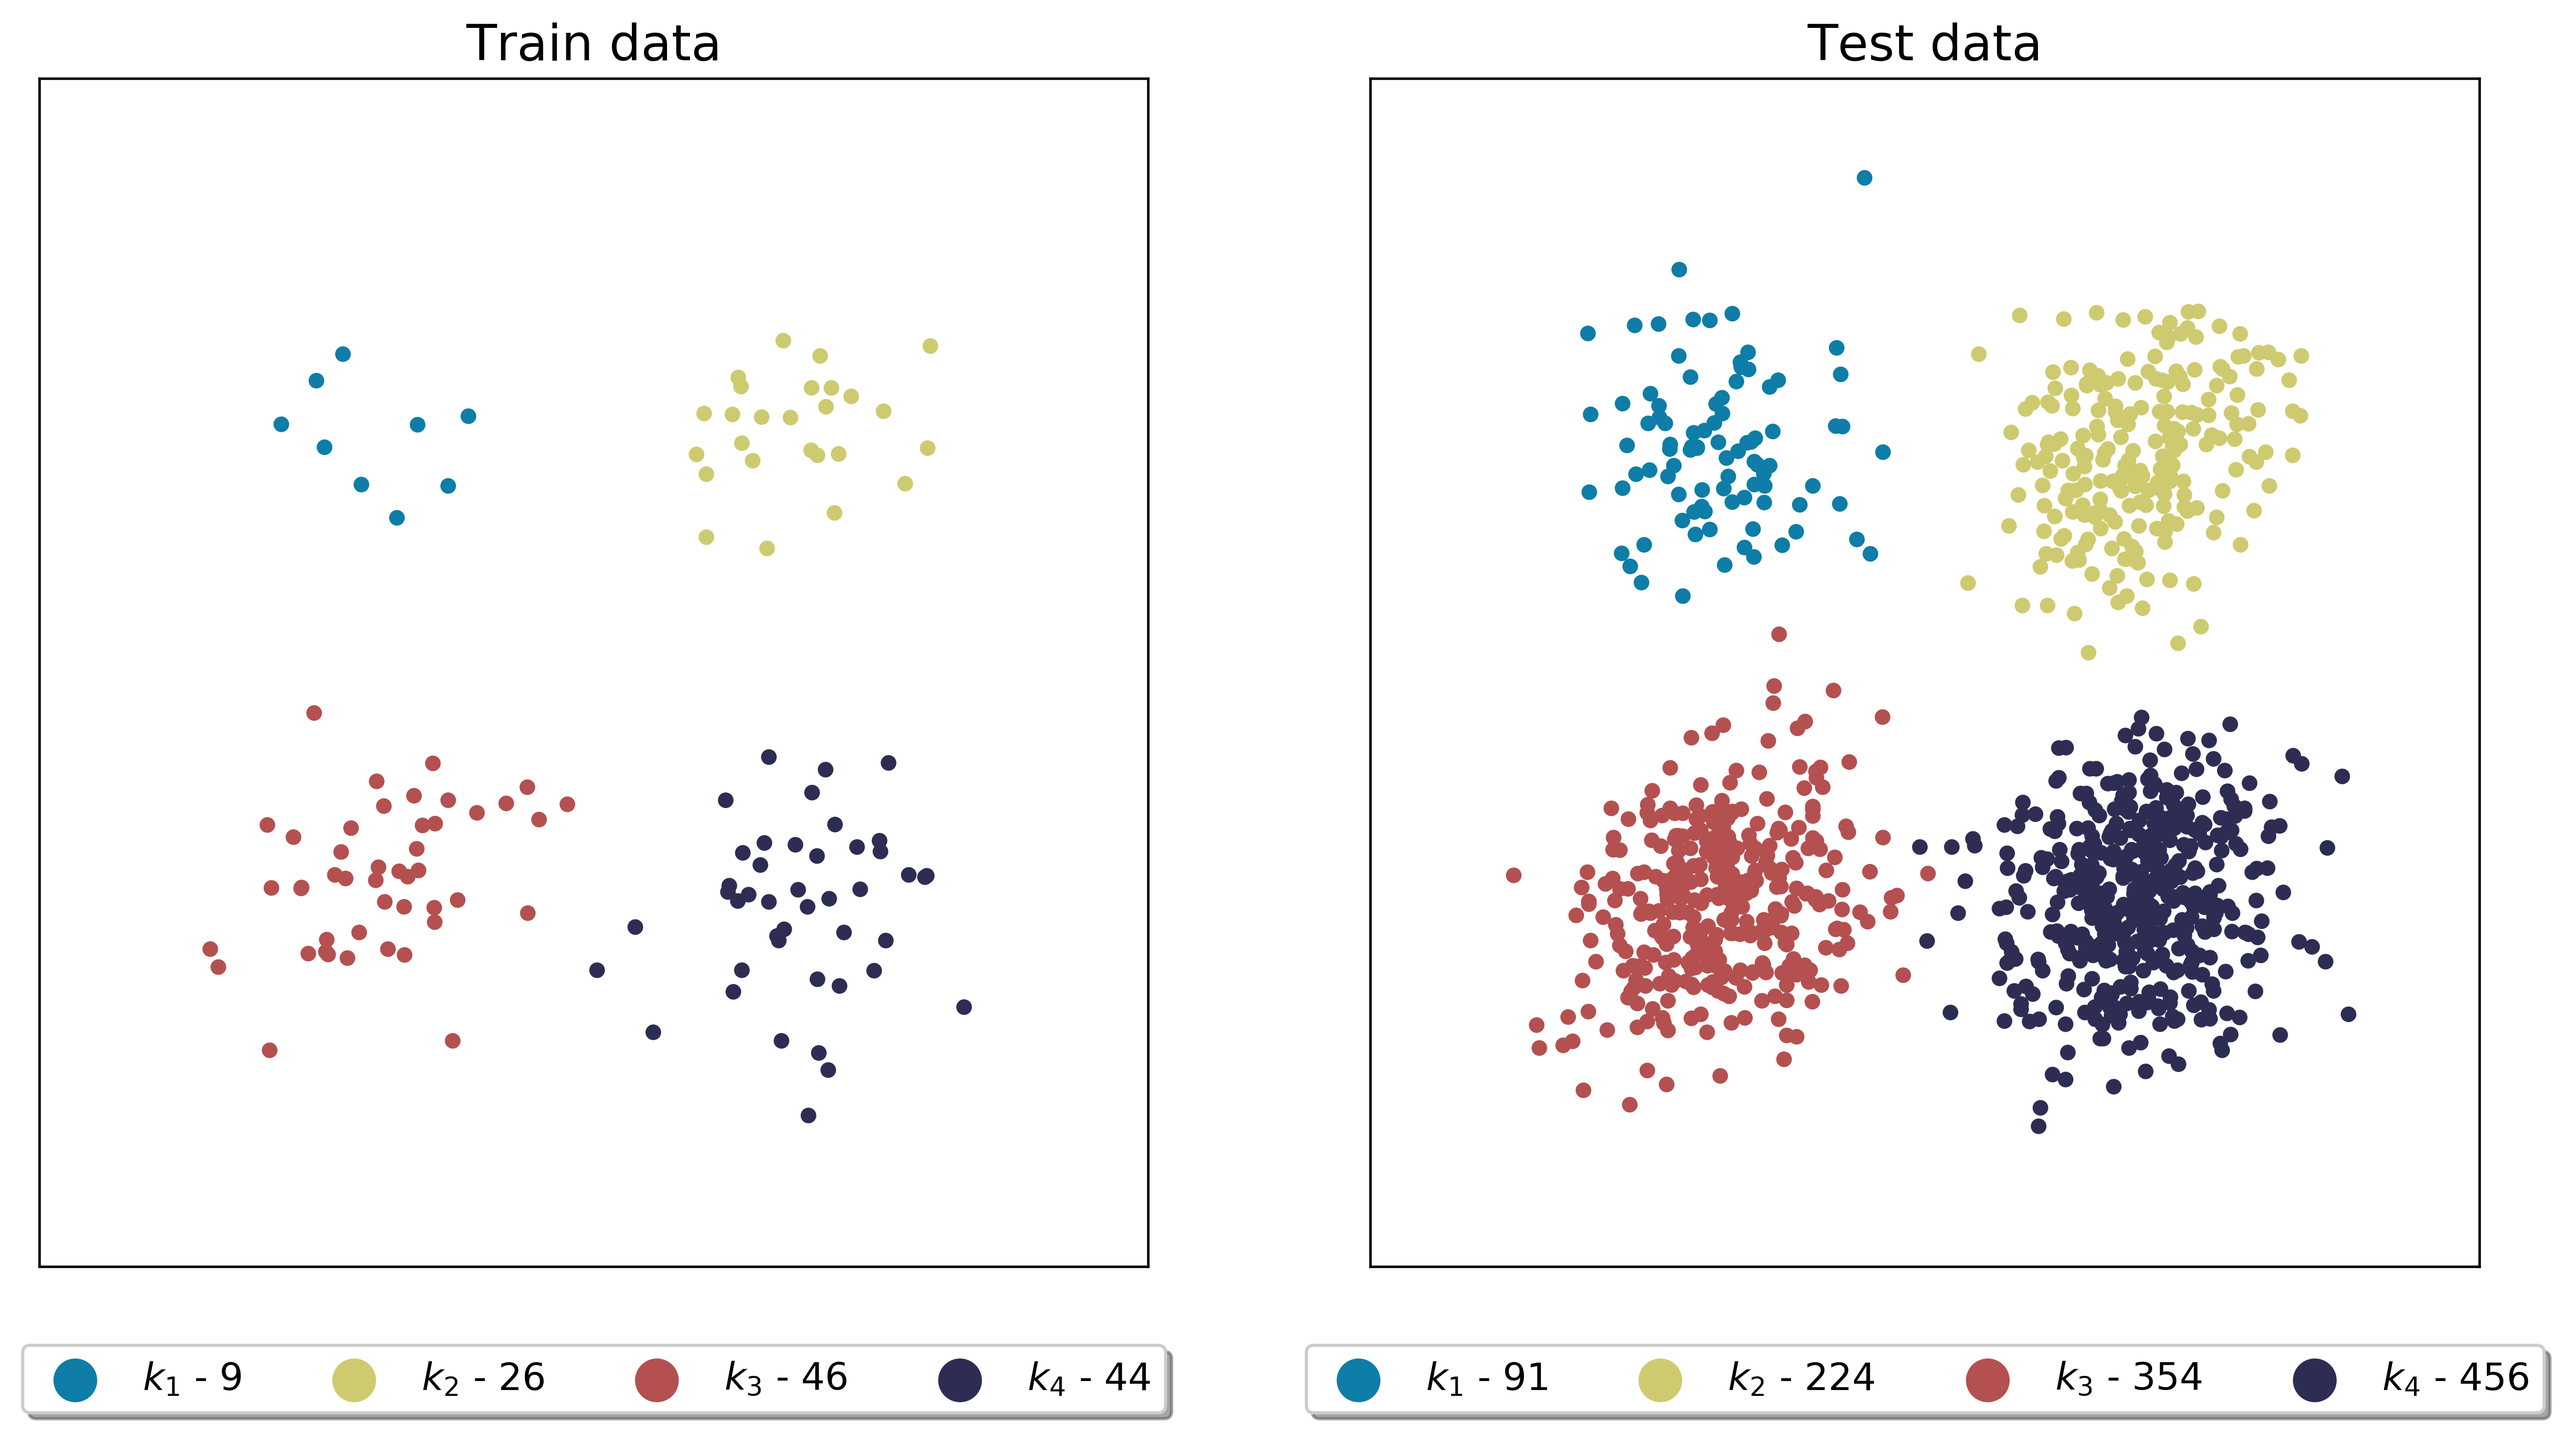
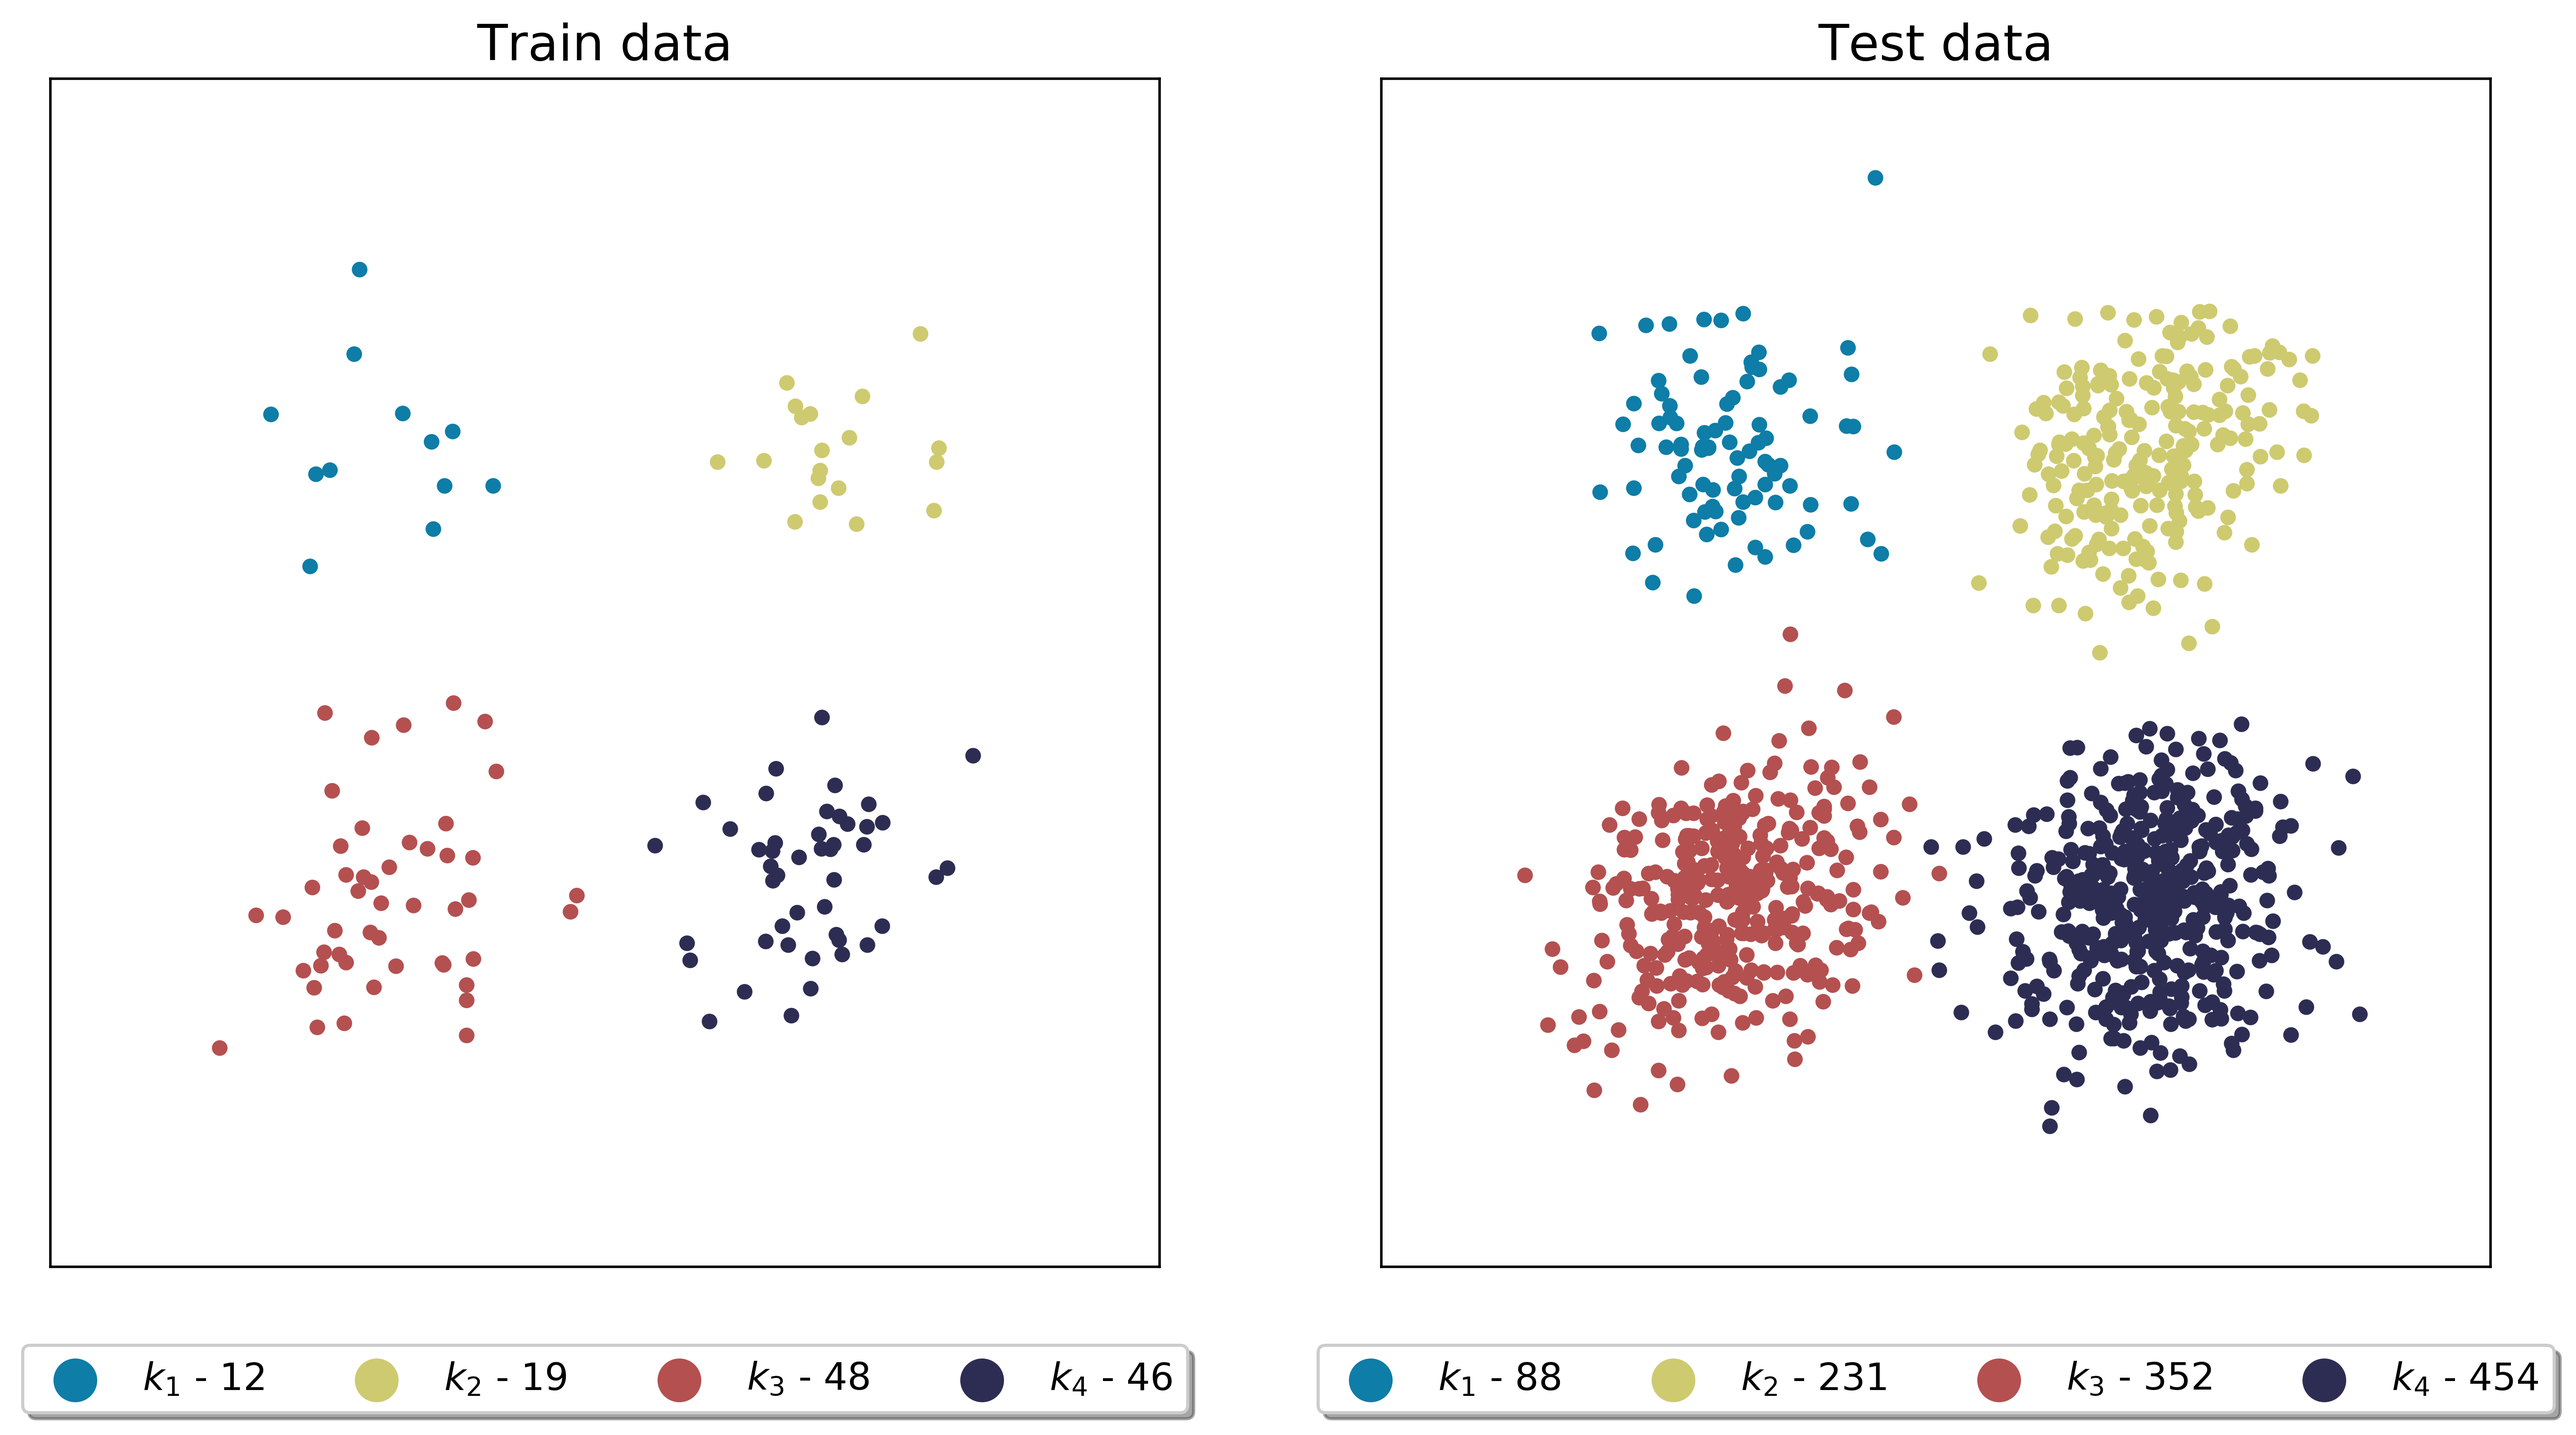
Random sampling documentation

diff --git a/docs/tutorials/train-test-selection.rst b/docs/tutorials/train-test-selection.rst
@@ -184,19 +184,19 @@ With ``verbose=True`` we will see some detailed information on sampling:
 
   Cluster 1: taking 9 train samples out of 100 observations (9.0%).
   Cluster 2: taking 26 train samples out of 250 observations (10.4%).
-  Cluster 3: taking 46 train samples out of 400 observations (11.5%).
-  Cluster 4: taking 44 train samples out of 500 observations (8.8%).
+  Cluster 3: taking 42 train samples out of 400 observations (10.5%).
+  Cluster 4: taking 48 train samples out of 500 observations (9.6%).
 
   Cluster 1: taking 91 test samples out of 91 remaining observations (100.0%).
   Cluster 2: taking 224 test samples out of 224 remaining observations (100.0%).
-  Cluster 3: taking 354 test samples out of 354 remaining observations (100.0%).
-  Cluster 4: taking 456 test samples out of 456 remaining observations (100.0%).
+  Cluster 3: taking 358 test samples out of 358 remaining observations (100.0%).
+  Cluster 4: taking 452 test samples out of 452 remaining observations (100.0%).
 
   Selected 125 train samples (10.0%) and 1125 test samples (90.0%).
 
 The visual result of this sampling can be seen below:
 
-.. image:: ../images/tutorial-train-test-select-random.png
+.. image:: ../images/tutorial-train-test-select-random-doc.png
   :width: 700
   :align: center
 
